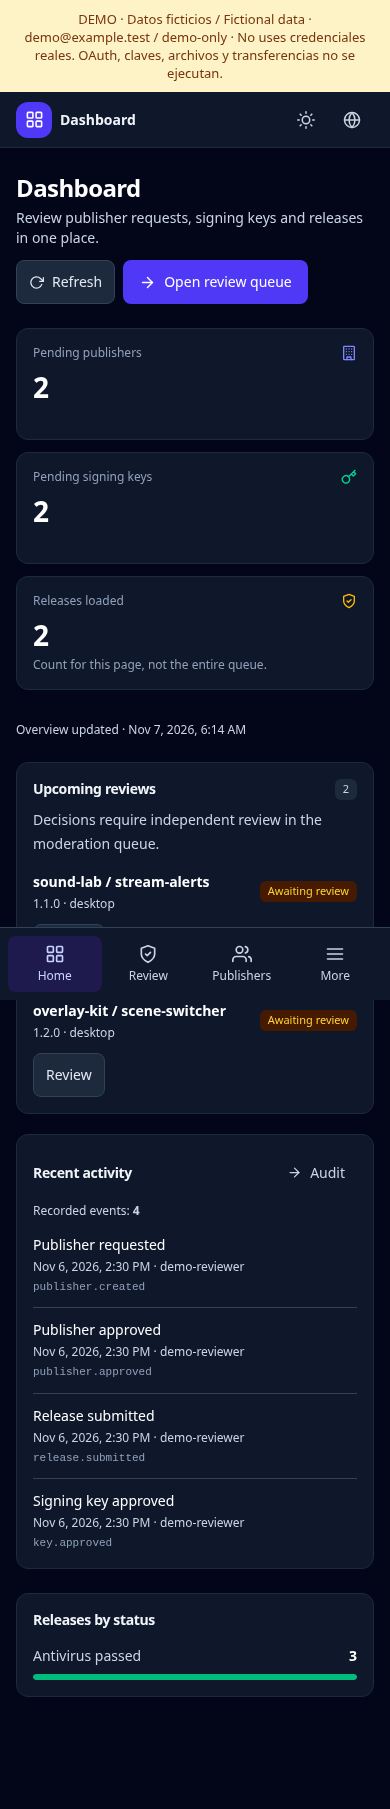
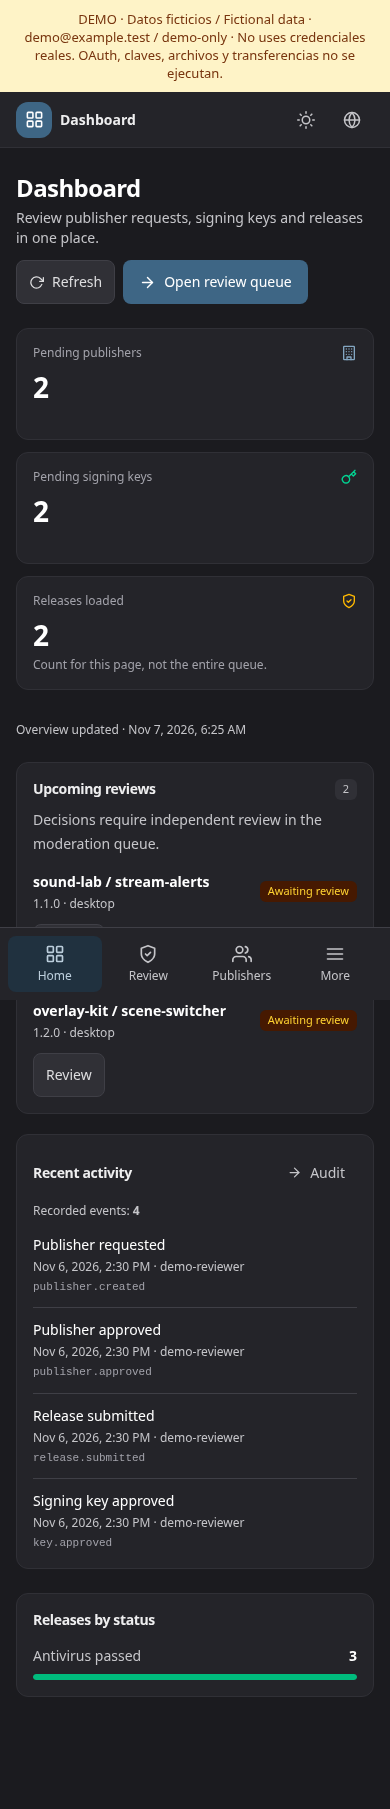
style(web): adopt neutral OBS-inspired theme

Changed region(s): [[0.0, 0.031, 1.0, 1.0], [0.1231, 0.5263, 0.1538, 0.5572]]

diff --git a/crates/cloud-api/web/dist/login.css b/crates/cloud-api/web/dist/login.css
@@ -1,1 +1,1 @@
-:root{color-scheme:light dark;font-family:system-ui,-apple-system,Segoe UI,sans-serif;--bg: #eef0f3;--card: #ffffff;--text: #17171c;--muted: #5b5b64;--border: #d8d8de;--input-bg: #ffffff;--primary: #1d4ed8;--primary-hover: #1e40af;--primary-text: #ffffff;--focus: #2563eb;--tab-bg: #e4e4e7}@media(prefers-color-scheme:dark){:root{--bg: #0c0c10;--card: #17171d;--text: #f4f4f5;--muted: #a8a8b3;--border: #34343e;--input-bg: #0c0c10;--primary: #5b96f7;--primary-hover: #7cabf8;--primary-text: #0b0e14;--focus: #8db4f8;--tab-bg: #26262e}}*{box-sizing:border-box}body{margin:0;min-height:100vh;display:grid;place-items:center;padding:1.5rem 1rem;background:var(--bg);color:var(--text)}main{width:100%;max-width:28rem;background:var(--card);border:1px solid var(--border);border-radius:1rem;padding:2rem}.topbar{display:flex;align-items:center;justify-content:space-between;gap:1rem;margin-bottom:1.75rem}.brand{display:flex;align-items:center;gap:.6rem}.logo{width:1.75rem;height:1.75rem;color:var(--primary);flex:none}.langselect{position:relative}#lang-button{padding:.35rem .6rem;font-size:.8rem;border-radius:.5rem;gap:.4rem}#lang-button svg{width:1rem;height:1rem}#lang-button svg.chev{width:.8rem;height:.8rem;color:var(--muted)}#lang-button[aria-expanded=true] svg.chev{transform:rotate(180deg)}#lang-menu{position:absolute;right:0;top:calc(100% + .35rem);margin:0;padding:.3rem;list-style:none;background:var(--card);border:1px solid var(--border);border-radius:.65rem;min-width:9rem;z-index:10}#lang-menu li{padding:.5rem .7rem;border-radius:.45rem;font-size:.85rem;cursor:pointer}#lang-menu li:hover{background:var(--tab-bg)}#lang-menu li.active{font-weight:700}#message{color:var(--muted);margin:0 0 1rem;font-size:.95rem}#message:empty{display:none}#account{margin:0 0 1rem;font-weight:600;overflow-wrap:anywhere}#account:empty{display:none}.tabs{display:flex;gap:.25rem;background:var(--tab-bg);border-radius:.65rem;padding:.25rem;margin-bottom:1.1rem}.tabs button{flex:1;padding-inline:.5rem;font-size:.9rem;border-color:transparent;background:transparent;border-radius:.45rem;margin:0}.tabs button.active{background:var(--card);border-color:var(--border)}form{display:flex;flex-direction:column;gap:.9rem;margin-bottom:1rem}.field{display:flex;flex-direction:column;gap:.35rem}.field label{font-size:.82rem;font-weight:600;color:var(--muted)}.control{position:relative}.control svg{position:absolute;left:.7rem;top:50%;transform:translateY(-50%);width:1.05rem;height:1.05rem;color:var(--muted);pointer-events:none}input{font:inherit;color:var(--text);background:var(--input-bg);border:1px solid var(--border);border-radius:.6rem;padding:.65rem .8rem .65rem 2.4rem;width:100%}.password-field input{padding-right:2.6rem}.peek{position:absolute;right:.3rem;top:50%;transform:translateY(-50%);width:2rem;height:2rem;display:grid;place-items:center;border-color:transparent;padding:0;border-radius:.45rem;color:var(--muted)}.peek:hover{border-color:transparent;color:var(--text)}.peek svg{width:1.1rem;height:1.1rem;display:block}.who{margin:0;font-size:.85rem;color:var(--muted);overflow-wrap:anywhere}.who:empty{display:none}input:focus{outline:none;border-color:var(--focus);box-shadow:0 0 0 2px color-mix(in srgb,var(--focus) 35%,transparent)}.actions{display:flex;flex-wrap:wrap;gap:.6rem;margin-top:.25rem}button{font:inherit;font-weight:600;padding:.65rem 1.1rem;border-radius:.6rem;border:1px solid var(--border);background:transparent;color:var(--text);cursor:pointer;display:inline-flex;align-items:center;justify-content:center;gap:.55rem}button:hover{border-color:var(--muted)}button:focus-visible{outline:2px solid var(--focus);outline-offset:2px}button[type=submit],#continue{background:var(--primary);border-color:var(--primary);color:var(--primary-text);width:100%}button[type=submit]:hover,#continue:hover{background:var(--primary-hover)}#sign-in{width:100%;border-width:1px}#sign-in svg.g{width:1.1rem;height:1.1rem;flex:none}button.ghost{border-color:transparent;color:var(--muted);font-weight:500}button.ghost:hover{border-color:var(--border);color:var(--text);background:var(--tab-bg)}button:disabled{opacity:.55;cursor:default}button,input,.tabs button,#lang-menu li{transition:background-color .15s ease,border-color .15s ease,color .15s ease}.fade-enter-active,.fade-leave-active{transition:opacity .16s ease,transform .16s ease}.fade-enter-from,.fade-leave-to{opacity:0;transform:translateY(4px)}@media(prefers-reduced-motion:reduce){button,input,.tabs button,#lang-menu li,.collapse,.collapse.open,.fade-enter-active,.fade-leave-active{transition:none}.fade-enter-from,.fade-leave-to{transform:none}}.collapse{display:grid;grid-template-rows:0fr;visibility:hidden;transition:grid-template-rows .28s ease,visibility 0s linear .28s}.collapse.open{grid-template-rows:1fr;visibility:visible;transition:grid-template-rows .28s ease,visibility 0s}.collapse-inner{overflow:hidden;min-height:0}@media(max-width:480px){body{padding:0;place-items:stretch start}main{max-width:none;min-height:100dvh;border:none;border-radius:0;padding:1.25rem 1.25rem 2rem}input,button{font-size:1rem}button[type=submit],#continue{min-height:3rem}.topbar{position:sticky;top:0}}[hidden]{display:none!important}#app{width:100%;max-width:28rem}.brand span{font-size:.9rem;font-weight:700}.access-header{margin-bottom:1.5rem}h1{margin:0;font-size:1.65rem;line-height:1.2;letter-spacing:-.04em}.subtitle{margin:.65rem 0 0;color:var(--muted);font-size:.9rem;line-height:1.6}#account,.who{padding:.85rem 1rem;border:1px solid var(--border);border-radius:.6rem;background:var(--input-bg);color:var(--text)}.form-actions{flex-wrap:nowrap;align-items:stretch;gap:.75rem}.form-actions button[type=submit]{flex:1;width:auto}#password-back{flex:0 0 auto}.access-footer{display:flex;justify-content:center;border-top:1px solid var(--border);padding-top:1rem;margin-top:1.5rem}button{min-height:44px}.peek{width:44px;height:44px;right:0}.peek svg{position:static;transform:none}.password-field input{padding-right:3rem;min-height:48px}@media(max-width:480px){#app{max-width:none}.brand span{font-size:.8rem}.topbar{gap:.5rem}}@media(prefers-reduced-motion:reduce){.collapse,.collapse.open{transition:none}}
+:root{color-scheme:light dark;font-family:system-ui,-apple-system,Segoe UI,sans-serif;--bg: #eeeeef;--card: #ffffff;--text: #242429;--muted: #52525b;--border: #c5c5c9;--input-bg: #ffffff;--primary: #3e6685;--primary-hover: #335570;--primary-text: #ffffff;--focus: #3e6685;--tab-bg: #dddddf}@media(prefers-color-scheme:dark){:root{--bg: #1b1b1f;--card: #242429;--text: #f4f4f5;--muted: #a2a2aa;--border: #71717a;--input-bg: #1b1b1f;--primary: #a2bdd2;--primary-hover: #bccedc;--primary-text: #1b1b1f;--focus: #a2bdd2;--tab-bg: #303036}}*{box-sizing:border-box}body{margin:0;min-height:100vh;display:grid;place-items:center;padding:1.5rem 1rem;background:var(--bg);color:var(--text)}main{width:100%;max-width:28rem;background:var(--card);border:1px solid var(--border);border-radius:1rem;padding:2rem}.topbar{display:flex;align-items:center;justify-content:space-between;gap:1rem;margin-bottom:1.75rem}.brand{display:flex;align-items:center;gap:.6rem}.logo{width:1.75rem;height:1.75rem;color:var(--primary);flex:none}.langselect{position:relative}#lang-button{padding:.35rem .6rem;font-size:.8rem;border-radius:.5rem;gap:.4rem}#lang-button svg{width:1rem;height:1rem}#lang-button svg.chev{width:.8rem;height:.8rem;color:var(--muted)}#lang-button[aria-expanded=true] svg.chev{transform:rotate(180deg)}#lang-menu{position:absolute;right:0;top:calc(100% + .35rem);margin:0;padding:.3rem;list-style:none;background:var(--card);border:1px solid var(--border);border-radius:.65rem;min-width:9rem;z-index:10}#lang-menu li{padding:.5rem .7rem;border-radius:.45rem;font-size:.85rem;cursor:pointer}#lang-menu li:hover{background:var(--tab-bg)}#lang-menu li.active{font-weight:700}#message{color:var(--muted);margin:0 0 1rem;font-size:.95rem}#message:empty{display:none}#account{margin:0 0 1rem;font-weight:600;overflow-wrap:anywhere}#account:empty{display:none}.tabs{display:flex;gap:.25rem;background:var(--tab-bg);border-radius:.65rem;padding:.25rem;margin-bottom:1.1rem}.tabs button{flex:1;padding-inline:.5rem;font-size:.9rem;border-color:transparent;background:transparent;border-radius:.45rem;margin:0}.tabs button.active{background:var(--card);border-color:var(--border)}form{display:flex;flex-direction:column;gap:.9rem;margin-bottom:1rem}.field{display:flex;flex-direction:column;gap:.35rem}.field label{font-size:.82rem;font-weight:600;color:var(--muted)}.control{position:relative}.control svg{position:absolute;left:.7rem;top:50%;transform:translateY(-50%);width:1.05rem;height:1.05rem;color:var(--muted);pointer-events:none}input{font:inherit;color:var(--text);background:var(--input-bg);border:1px solid var(--border);border-radius:.6rem;padding:.65rem .8rem .65rem 2.4rem;width:100%}.password-field input{padding-right:2.6rem}.peek{position:absolute;right:.3rem;top:50%;transform:translateY(-50%);width:2rem;height:2rem;display:grid;place-items:center;border-color:transparent;padding:0;border-radius:.45rem;color:var(--muted)}.peek:hover{border-color:transparent;color:var(--text)}.peek svg{width:1.1rem;height:1.1rem;display:block}.who{margin:0;font-size:.85rem;color:var(--muted);overflow-wrap:anywhere}.who:empty{display:none}input:focus{outline:2px solid var(--focus);outline-offset:2px;border-color:var(--focus)}.actions{display:flex;flex-wrap:wrap;gap:.6rem;margin-top:.25rem}button{font:inherit;font-weight:600;padding:.65rem 1.1rem;border-radius:.6rem;border:1px solid var(--border);background:transparent;color:var(--text);cursor:pointer;display:inline-flex;align-items:center;justify-content:center;gap:.55rem}button:hover{border-color:var(--muted)}button:focus-visible{outline:2px solid var(--focus);outline-offset:2px}button[type=submit],#continue{background:var(--primary);border-color:var(--primary);color:var(--primary-text);width:100%}button[type=submit]:hover,#continue:hover{background:var(--primary-hover)}#sign-in{width:100%;border-width:1px}#sign-in svg.g{width:1.1rem;height:1.1rem;flex:none}button.ghost{border-color:transparent;color:var(--muted);font-weight:500}button.ghost:hover{border-color:var(--border);color:var(--text);background:var(--tab-bg)}button:disabled{opacity:.55;cursor:default}button,input,.tabs button,#lang-menu li{transition:background-color .15s ease,border-color .15s ease,color .15s ease}.fade-enter-active,.fade-leave-active{transition:opacity .16s ease,transform .16s ease}.fade-enter-from,.fade-leave-to{opacity:0;transform:translateY(4px)}@media(prefers-reduced-motion:reduce){button,input,.tabs button,#lang-menu li,.collapse,.collapse.open,.fade-enter-active,.fade-leave-active{transition:none}.fade-enter-from,.fade-leave-to{transform:none}}.collapse{display:grid;grid-template-rows:0fr;visibility:hidden;transition:grid-template-rows .28s ease,visibility 0s linear .28s}.collapse.open{grid-template-rows:1fr;visibility:visible;transition:grid-template-rows .28s ease,visibility 0s}.collapse-inner{overflow:hidden;min-height:0}@media(max-width:480px){body{padding:0;place-items:stretch start}main{max-width:none;min-height:100dvh;border:none;border-radius:0;padding:1.25rem 1.25rem 2rem}input,button{font-size:1rem}button[type=submit],#continue{min-height:3rem}.topbar{position:sticky;top:0}}[hidden]{display:none!important}#app{width:100%;max-width:28rem}.brand span{font-size:.9rem;font-weight:700}.access-header{margin-bottom:1.5rem}h1{margin:0;font-size:1.65rem;line-height:1.2;letter-spacing:-.04em}.subtitle{margin:.65rem 0 0;color:var(--muted);font-size:.9rem;line-height:1.6}#account,.who{padding:.85rem 1rem;border:1px solid var(--border);border-radius:.6rem;background:var(--input-bg);color:var(--text)}.form-actions{flex-wrap:nowrap;align-items:stretch;gap:.75rem}.form-actions button[type=submit]{flex:1;width:auto}#password-back{flex:0 0 auto}.access-footer{display:flex;justify-content:center;border-top:1px solid var(--border);padding-top:1rem;margin-top:1.5rem}button{min-height:44px}.peek{width:44px;height:44px;right:0}.peek svg{position:static;transform:none}.password-field input{padding-right:3rem;min-height:48px}@media(max-width:480px){#app{max-width:none}.brand span{font-size:.8rem}.topbar{gap:.5rem}}@media(prefers-reduced-motion:reduce){.collapse,.collapse.open{transition:none}}

diff --git a/web/admin/src/style.css b/web/admin/src/style.css
@@ -4,6 +4,29 @@
 @custom-variant dark (&:where(.dark, .dark *));
 
 @theme {
+  /* Neutral surfaces and restrained blue actions; shared by existing utilities. */
+  --color-slate-50: #f7f7f7;
+  --color-slate-100: #eeeeef;
+  --color-slate-200: #dddddf;
+  --color-slate-300: #c5c5c9;
+  --color-slate-400: #a2a2aa;
+  --color-slate-500: #71717a;
+  --color-slate-600: #52525b;
+  --color-slate-700: #3f3f46;
+  --color-slate-800: #303036;
+  --color-slate-900: #242429;
+  --color-slate-950: #1b1b1f;
+  --color-indigo-50: #edf2f6;
+  --color-indigo-100: #dce6ee;
+  --color-indigo-200: #bccedc;
+  --color-indigo-300: #a2bdd2;
+  --color-indigo-400: #83a6c2;
+  --color-indigo-500: #517b9c;
+  --color-indigo-600: #3e6685;
+  --color-indigo-700: #335570;
+  --color-indigo-800: #2b475d;
+  --color-indigo-900: #263d4f;
+  --color-indigo-950: #20313f;
   --font-sans: system-ui, -apple-system, "Segoe UI", sans-serif;
 }
 
@@ -29,7 +52,7 @@ body {
 /* Thin, theme-aware scrollbars for nav rails and table wrappers. */
 :where(.scroll-thin) {
   scrollbar-width: thin;
-  scrollbar-color: rgb(148 163 184 / 0.6) transparent;
+  scrollbar-color: rgb(162 162 170 / 0.6) transparent;
 }
 
 @media (prefers-reduced-motion: reduce) {
@@ -48,8 +71,8 @@ body {
 
 /* Clear text selection and scroll treatments across light/dark modes. */
 ::selection {
-  background: rgb(99 102 241 / 0.22);
+  background: rgb(62 102 133 / 0.22);
 }
 .dark ::selection {
-  background: rgb(129 140 248 / 0.28);
+  background: rgb(162 189 210 / 0.28);
 }

diff --git a/web/desktop/src/style.css b/web/desktop/src/style.css
@@ -1,32 +1,32 @@
 :root {
   color-scheme: light dark;
   font-family: system-ui, -apple-system, "Segoe UI", sans-serif;
-  --bg: #eef0f3;
+  --bg: #eeeeef;
   --card: #ffffff;
-  --text: #17171c;
-  --muted: #5b5b64;
-  --border: #d8d8de;
+  --text: #242429;
+  --muted: #52525b;
+  --border: #c5c5c9;
   --input-bg: #ffffff;
-  --primary: #1d4ed8;
-  --primary-hover: #1e40af;
+  --primary: #3e6685;
+  --primary-hover: #335570;
   --primary-text: #ffffff;
-  --focus: #2563eb;
-  --tab-bg: #e4e4e7;
+  --focus: #3e6685;
+  --tab-bg: #dddddf;
 }
 
 @media (prefers-color-scheme: dark) {
   :root {
-    --bg: #0c0c10;
-    --card: #17171d;
+    --bg: #1b1b1f;
+    --card: #242429;
     --text: #f4f4f5;
-    --muted: #a8a8b3;
-    --border: #34343e;
-    --input-bg: #0c0c10;
-    --primary: #5b96f7;
-    --primary-hover: #7cabf8;
-    --primary-text: #0b0e14;
-    --focus: #8db4f8;
-    --tab-bg: #26262e;
+    --muted: #a2a2aa;
+    --border: #71717a;
+    --input-bg: #1b1b1f;
+    --primary: #a2bdd2;
+    --primary-hover: #bccedc;
+    --primary-text: #1b1b1f;
+    --focus: #a2bdd2;
+    --tab-bg: #303036;
   }
 }
 
@@ -187,7 +187,7 @@ input {
 
 .who:empty { display: none; }
 
-input:focus { outline: none; border-color: var(--focus); box-shadow: 0 0 0 2px color-mix(in srgb, var(--focus) 35%, transparent); }
+input:focus { outline: 2px solid var(--focus); outline-offset: 2px; border-color: var(--focus); }
 
 .actions { display: flex; flex-wrap: wrap; gap: 0.6rem; margin-top: 0.25rem; }
 

diff --git a/docs/demo/REDESIGN.md b/docs/demo/REDESIGN.md
@@ -2,7 +2,8 @@
 
 El panel Vue y el acceso de escritorio incorporan superficies planas, bordes
 legibles, controles principales de 44 px y jerarquía de acciones. Se eliminaron
-sombras decorativas; no se añadieron degradados. `concept.html` se conserva como
+sombras; no se añadieron degradados. La paleta inspirada en OBS utiliza grises
+neutros y azul apagado, conservando colores semánticos de estado y el layout. `concept.html` se conserva como
 referencia histórica, no como una segunda aplicación.
 
 ## Pantallas y componentes

diff --git a/docs/demo/pr-11/README.md b/docs/demo/pr-11/README.md
@@ -1,7 +1,7 @@
 # PR #11: implemented UI screenshots
 
 Real Chromium captures of the local backend-free demo, taken 2026-11-07 from the
-redesign implemented in commit `6238a9b`. These are not concept renders.
+implemented redesign with the neutral OBS-inspired palette. These are not concept renders.
 
 All identities, namespace names, counts and records are demo fixtures. The displayed
 `demo@example.test` / `demo-only` credentials are intentionally public, local-only
